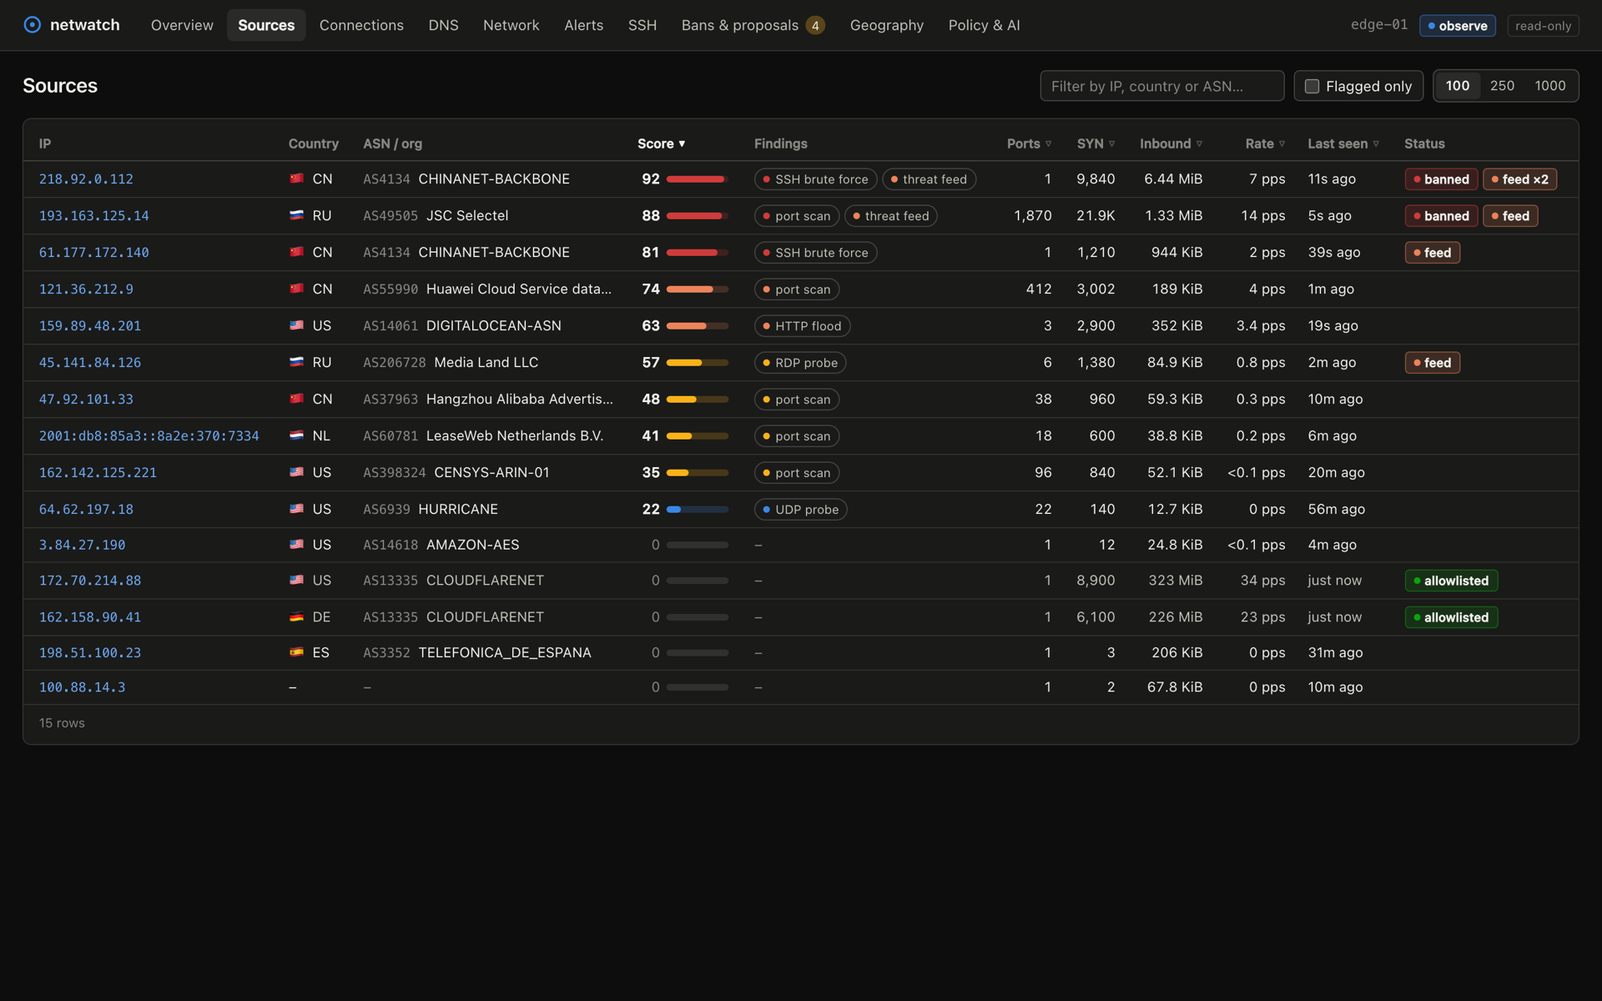
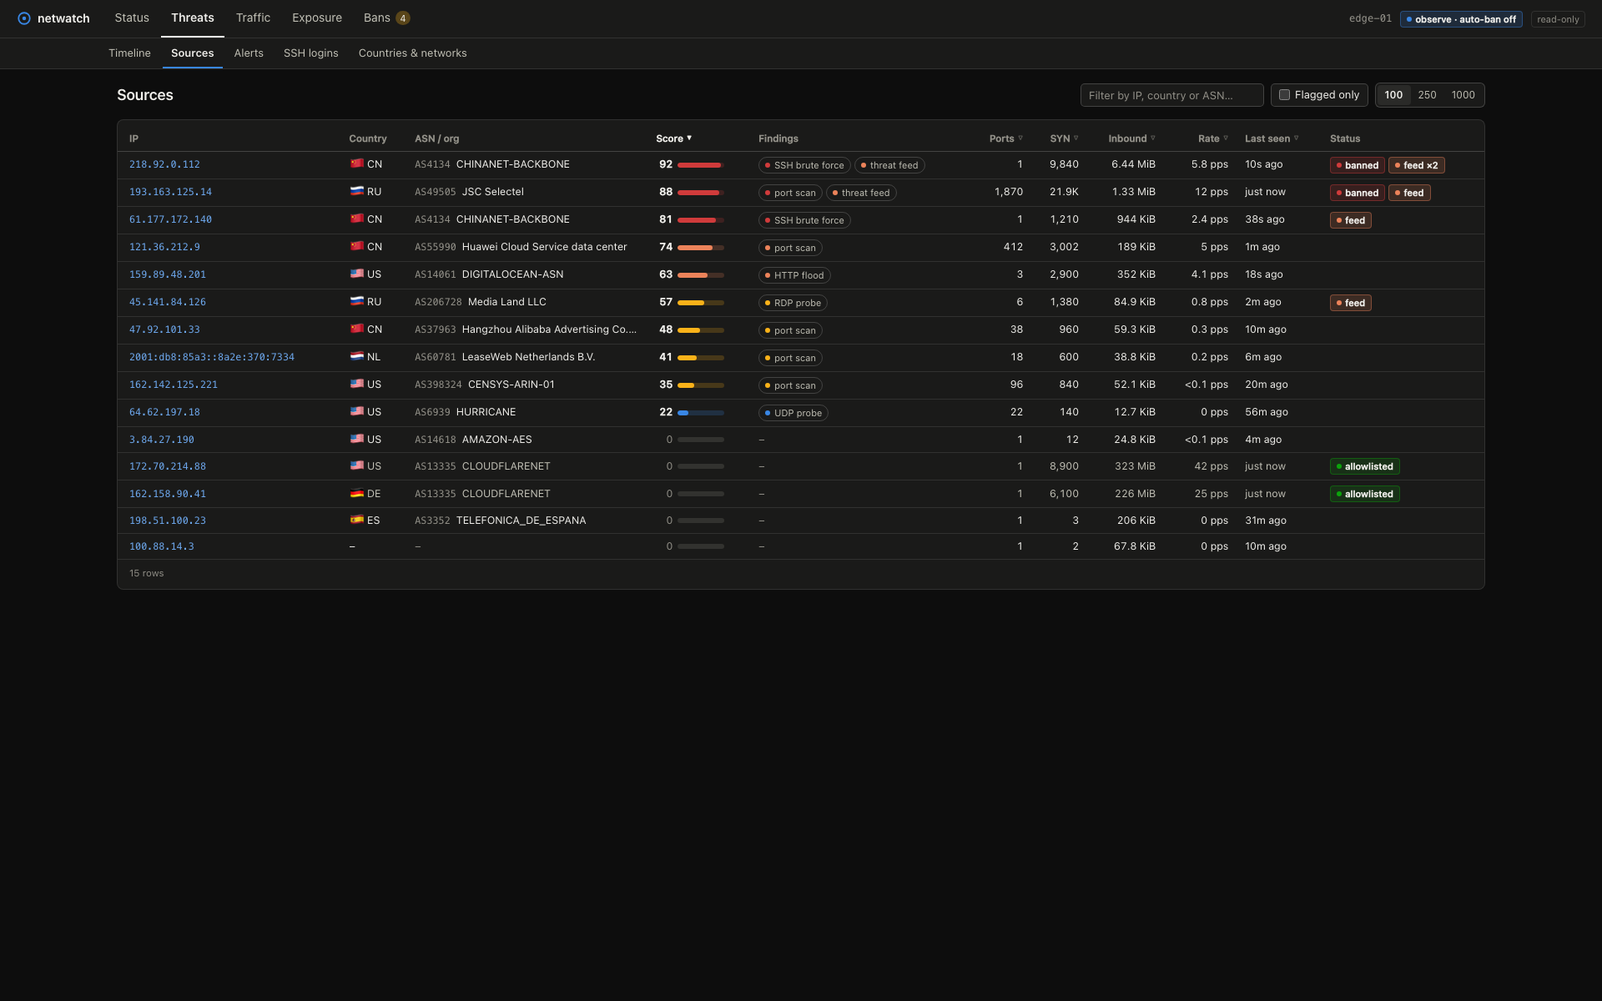
docs: the five-section UI, its new pages and screenshots
The web UI page follows the new sections: Status, Threats (timeline,
sources, a source's page, alerts, SSH logins, countries and networks),
Traffic (map, connections, destinations, DNS), Exposure and Bans. The
API page lists /api/timeline, /api/flows/graph and a ban's matched
count. README, the quick start and the agent skill follow, and every
screenshot is regenerated.

diff --git a/site/content/web-ui.md b/site/content/web-ui.md
@@ -6,17 +6,37 @@ description: A tour of every page in the web UI, what it shows and the command t
 
 The UI is built into the binary and served with the API on `127.0.0.1:9180`. It is read-only: it can't ban, approve or change settings, so exposing it through a tunnel can't change anything on the host. Every page refreshes on its own, follows your system's light or dark theme, and works on a phone.
 
+It has five sections: **Status**, **Threats**, **Traffic**, **Exposure** and **Bans**. Sections with more than one page show them as tabs under the main navigation. The mode chip at the top right says whether netwatch bans on its own (`enforce · auto-ban on`) or only proposes (`observe · auto-ban off`), and adds `dry run` when bans are counted but not dropped (`drop_banned = false`, or macOS without pf).
+
 > The screenshots on this page use the UI's built-in demo data, not a real host. **[Open the live demo](/demo/)** to click through the same data in your browser, without installing anything.
 
-## Overview
+## Status
 
-The state of the host at a glance: the attached interface and mode, live inbound packets, SYNs and drops, flagged sources, active bans, pending proposals and SSH failures, with 30-minute charts. Below them are the insights, each with the command that acts on it, and a summary of the host's connections.
+The page that opens first answers one question: does anything need you? The verdict at the top says **All quiet. Nothing needs you.**, or **Needs you** with the count of things to act on now and to check, and the command for the first one. Below it, each item says what netwatch saw, what it means for the host, a link to the evidence and the command that fixes or investigates it. They come from the daemon's insights, the pending proposals, and programs on this host whose connections to the same address and port failed three or more times in the last 24 hours.
 
-![Overview](/screenshots/overview.png)
+![Status](/screenshots/status.png)
+
+Under the list, three columns:
+
+- **Who is knocking**: flagged sources, bans and SSH logins, with the five highest-scoring sources active in the last 24 hours as a small timeline.
+- **Who this host talks to**: internet destinations in the last 24 hours, failing ones first.
+- **What the internet can reach**: listening ports bound beyond loopback, and how many sources touched each one in the last 24 hours.
+
+Then inbound packets per second over the last 30 minutes, with SYN bursts marked, and a line about the sensor: where XDP is attached, how many interfaces record flows, the threat feeds, and any tracepoint that failed to attach with what is missing because of it.
+
+If the daemon stops answering, the verdict says so and gives the command that checks the service.
 
 Terminal: `netwatch status`.
 
-## Sources
+## Threats
+
+### Timeline
+
+The flagged sources active in the last 7 days (or 24 hours), one lane each, highest score first, up to 20. A lane shows packets per hour, and marks when a finding was raised, a ban was proposed, the ban started, and any SSH login it got. Above it, the networks with more than one flagged source or a ban. The sentence at the top says how many flagged sources were active in the window, how many are banned, how many have a ban waiting for you, and whether any logged in.
+
+![Threats timeline](/screenshots/threats.png)
+
+### Sources
 
 Every address that sent traffic, scored 0–100. Each row shows what it did (port scan, SSH brute force, threat feed, …), its country and network, its traffic, and whether it's banned, allowlisted or on a threat feed. Search by address, country or ASN, and sort by score, SYNs, bytes or ports touched.
 
@@ -24,45 +44,17 @@ Every address that sent traffic, scored 0–100. Each row shows what it did (por
 
 Terminal: `netwatch sources --flagged` (alias `netwatch top`).
 
-## Source detail
+### One source
 
-One address in full: why it scored what it did, which feeds list it and the matching range, its ban and the command that lifts it, its traffic counters, the ports it touched (and which hit a listening service), its SSH events, alerts and proposals, and seven days of hourly history.
+Opening an address tells its story. The verdict says what happened and where it stands (for example "Banned 2d ago for SSH brute force, still trying"), with the next command: approve its pending proposal, ban it, or lift its ban. Three facts follow: whether it ever logged in, what its ban dropped (or matched, in a dry run), and the threat feeds that list it. Then seven days of packets and SYNs per hour with the events on them, and **What it did**: the ports it touched and which had a service listening, its connections and client software, the usernames it tried, and other flagged sources in the same network.
+
+The evidence is folded underneath: its connections, the ports touched, SSH attempts, alerts and proposals, and the raw counters.
 
 ![Source detail](/screenshots/source-detail.png)
 
 Terminal: `netwatch ip 218.92.0.112`.
 
-## Connections
-
-Every flow on the monitored interfaces, live or from history. For each one: direction, the process or container that owns it, the DNS name or TLS SNI of the other side, bytes and rates each way, TCP state, connect latency and retransmits. The summary above it shows active flows, failed connects, and the top remotes, processes, services and countries.
-
-![Connections](/screenshots/connections.png)
-
-The **Destinations** tab lists every address the host and its containers connected out to, one row per address, with the processes that reached it.
-
-Terminal: `netwatch flows`, or `netwatch flows --history --window 24h`.
-
-## DNS
-
-Every DNS query seen on the wire, with the client, the server, the answer, the response code and the latency. Next to it, the most-queried names with their NXDOMAIN counts, which is where misconfigured clients and malware beacons stand out.
-
-![DNS](/screenshots/dns.png)
-
-Terminal: `netwatch dns`, `netwatch dns --top`, `netwatch dns --rcode NXDOMAIN`.
-
-## Network
-
-**Interfaces** shows every interface with its addresses, throughput, and what netwatch attached to it: XDP for accounting and bans, TC programs for flows. It also lists the kernel programs and tracepoints that loaded and the flow settings in effect.
-
-![Interfaces](/screenshots/interfaces.png)
-
-**Listeners** shows every listening socket, which process or container owns it, and whether it's exposed (bound to any address but loopback, LAN included) or bound to loopback only.
-
-![Listeners](/screenshots/listeners.png)
-
-Terminal: `netwatch ifaces`, `netwatch listeners`.
-
-## Alerts
+### Alerts
 
 Findings over time: port scans, brute force, floods, threat-feed matches, probes of sensitive ports and exploit attempts, each with its score, source, location, a summary and how many times it fired.
 
@@ -70,34 +62,82 @@ Findings over time: port scans, brute force, floods, threat-feed matches, probes
 
 Terminal: `netwatch alerts`.
 
-## SSH
+### SSH logins
 
 SSH events from sshd and Tailscale SSH: failed passwords, invalid users, pre-auth disconnects and successful logins, with the addresses that failed most on the left.
 
-![SSH](/screenshots/ssh.png)
+![SSH logins](/screenshots/ssh.png)
 
 Terminal: `netwatch ssh`.
 
-## Bans & proposals
+### Countries & networks
 
-Active bans with their reason, who applied them, when they expire and how many packets they dropped. Pending proposals show who proposed them (the rules or the model), the confidence, the reason and the command that applies them. The number next to the tab is the count of proposals waiting.
+Sources grouped by country and by network (ASN), the ports they hit and the sources with the highest score over the last day or week.
+
+![Countries and networks](/screenshots/geo.png)
+
+Terminal: `netwatch geo 1.1.1.1` looks up one address offline.
+
+## Traffic
+
+### Map
+
+Who talks to whom, with the host in the middle. On the left, who connects in and to which service; on the right, which program on the host connects out and to whom. Line width is bytes. Failing connections are dashed red and say why (refused, timed out, unanswered), and lines from flagged sources are orange. Each column shows up to nine boxes and folds the rest into "N more". Click a box to list its connections under the map; **Table** shows the same lines as a table. The window is 5 minutes, 1 hour or 24 hours.
+
+![Traffic map](/screenshots/map.png)
+
+### Connections
+
+Every flow on the monitored interfaces, live or from history. For each one: direction, the process or container that owns it, the DNS name or TLS SNI of the other side, bytes and rates each way, TCP state, connect latency and retransmits. The summary above it shows active flows, failed connects, and the top remotes, processes, services and countries.
+
+![Connections](/screenshots/connections.png)
+
+Terminal: `netwatch flows`, or `netwatch flows --history --window 24h`.
+
+### Destinations
+
+Every address the host and its containers connected out to, one row per address, with the processes that reached it.
+
+![Destinations](/screenshots/destinations.png)
+
+### DNS
+
+Every DNS query seen on the wire, with the client, the server, the answer, the response code and the latency. Next to it, the most-queried names with their NXDOMAIN counts, which is where misconfigured clients and malware beacons stand out.
+
+![DNS](/screenshots/dns.png)
+
+Terminal: `netwatch dns`, `netwatch dns --top`, `netwatch dns --rcode NXDOMAIN`.
+
+## Exposure
+
+**Listening ports** shows every listening socket, which process or container owns it, and whether it's exposed (bound to any address but loopback, LAN included) or bound to loopback only.
+
+![Listening ports](/screenshots/listeners.png)
+
+**Interfaces & sensor** shows every interface with its addresses, throughput, and what netwatch attached to it: XDP for accounting and bans, TC programs for flows. It also lists the kernel programs and tracepoints that loaded and the flow settings in effect.
+
+![Interfaces and sensor](/screenshots/interfaces.png)
+
+Terminal: `netwatch listeners`, `netwatch ifaces`.
+
+## Bans
+
+### Bans & proposals
+
+Active bans with their reason, who applied them, when they expire and how many packets they dropped. When bans don't drop (a dry run), the column is **Matched, not dropped** and counts the packets that hit the ban and went through. Pending proposals show who proposed them (the rules or the model), the confidence, the reason and the command that applies them. The number next to **Bans** in the navigation is the count of proposals waiting.
 
 ![Bans and proposals](/screenshots/bans.png)
 
 Terminal: `netwatch bans`, `netwatch proposals`, then `sudo netwatch approve <id>`.
 
-## Geography
-
-Sources grouped by country and by network (ASN), the ports they hit and the sources with the highest score over the last day or week.
-
-![Geography](/screenshots/geo.png)
-
-Terminal: `netwatch geo 1.1.1.1` looks up one address offline.
-
-## Policy & AI
+### Policy & AI
 
 The ban policy in effect: your rules written in plain English, the structured rules they compiled to, and the built-in defaults. If a model is configured, the page also shows its recent runs, the tokens they used and what they proposed.
 
 ![Policy and AI](/screenshots/policy.png)
 
 Terminal: `netwatch policy show`. See [Bans and policy](/bans-and-policy) and [AI analysis](/ai-analysis).
+
+## Old addresses
+
+Links to the pages from before the five sections still work and land on the new page: `#/overview` opens Status, `#/sources` Threats › Sources, `#/geo` Countries & networks, `#/connections` Traffic › Connections, `#/listeners` Exposure, `#/policy` Bans › Policy & AI, and so on.

diff --git a/README.md b/README.md
@@ -17,7 +17,7 @@ It runs as root, so [Security and privacy](https://gotempsh.github.io/netwatch/s
 
 Optionally, it can use any OpenAI-compatible model. The model reviews the sources the rules can't settle, and turns plain-English ban policies into rules. It is designed for cheap models and small token budgets.
 
-![Overview: live rates, active bans, pending proposals, and insights with the command that fixes each one](docs/screenshots/overview.png)
+![Status: a verdict, what needs you with the command for each item, then who is knocking, who this host talks to and what the internet can reach](docs/screenshots/status.png)
 
 ```mermaid
 flowchart TB
@@ -45,13 +45,23 @@ flowchart TB
 
 ## A look around
 
+**Status.** The page that opens first says whether anything needs you. Each item gives what netwatch saw, a link to the evidence and the command that fixes it, and below them, who is knocking, who this host talks to and what the internet can reach.
+
+**Attack timeline.** The flagged sources active in the last 7 days, one lane each, with when each finding, proposal, ban and login happened.
+
+![Attack timeline: flagged sources by score, one lane each, with packets per hour, findings, proposals and bans](docs/screenshots/threats.png)
+
 **Sources.** Every address that sent traffic, scored 0–100, with what it did, its network, and whether it's banned, allowlisted or on a threat feed.
 
 ![Sources table sorted by score, with findings such as SSH brute force, port scan and threat feed](docs/screenshots/sources.png)
 
-**One source.** Why it scored what it did, which feeds list it, its ban and the command to lift it, and seven days of history.
+**One source.** What it did and where it stands: whether it got in, what its ban dropped, which feeds list it, seven days of history with its events, and the next command.
 
-![Source detail for an SSH brute-force address: findings, threat feeds, ban status and a 7-day chart](docs/screenshots/source-detail.png)
+![Source detail for an SSH brute-force address: banned and still trying, never got in, its 7 days of packets and the ports, connections and usernames it tried](docs/screenshots/source-detail.png)
+
+**Who talks to whom.** The host in the middle: who connects in and to which service, which program connects out and to whom. Failing connections are dashed red and say why.
+
+![Traffic map: inbound sources and the services they reach, outbound programs and their destinations, with failing connections dashed red](docs/screenshots/map.png)
 
 **Connections.** Every flow on the host with the process or container behind it, the name it was resolved from, and who it talks to most.
 
@@ -247,7 +257,7 @@ Open the UI through an SSH tunnel, since it never listens on a public address:
 ssh -L 9180:127.0.0.1:9180 user@server   # then browse http://127.0.0.1:9180
 ```
 
-The UI pages are: Overview, Connections, Interfaces, Listeners, DNS, Sources, Source detail, Alerts, SSH, Bans, Geo and Policy.
+The UI has five sections: Status; Threats (attack timeline, sources and each source's page, alerts, SSH logins, countries and networks); Traffic (the map, connections, destinations, DNS); Exposure (listening ports, interfaces and the sensor); and Bans (bans and proposals, policy and AI).
 
 Read-only commands talk to the same API and need no root:
 

diff --git a/site/content/quick-start.md b/site/content/quick-start.md
@@ -17,20 +17,20 @@ Then browse [http://127.0.0.1:9180](http://127.0.0.1:9180). On a Mac running net
 
 No server yet? The [live demo](/demo/) is the same UI on demo data, so you can follow the steps below in your browser.
 
-![The Overview page: host status, live rates, flagged sources, bans and proposals](/screenshots/overview.png "Overview: the host, live packet and SYN rates, flagged sources, active bans and pending proposals.")
+![The Status page: a verdict, what needs you with the command for each item, and who is knocking](/screenshots/status.png "Status: what needs you, most urgent first, then who is knocking, who this host talks to and what the internet can reach.")
 
-The strip at the top shows the host, the interface XDP is attached to and how (driver or generic), the mode, whether bans drop packets, the threat feeds loaded and, if configured, the model and its token budget.
+## 2. Read what needs you
 
-## 2. Read the insights
-
-Further down the Overview, **Insights** is what netwatch thinks deserves attention, most severe first. Each one says what it saw and gives the command that fixes or investigates it, for example:
+**Status** opens with a verdict: all quiet, or what needs you now and what to check. Each item says what netwatch saw and gives the command that fixes or investigates it, for example:
 
 - "sshd accepts passwords", with the `sshd_config` change;
 - "SSH brute force from CHINANET /16 is ongoing", with the pending proposal;
 - "port 5432 is reachable and being probed";
-- "this host talked to a listed IP".
+- "pg-backup can't reach db.backup.example.com:5432", when a program's connections keep failing.
 
-The same list is in the terminal:
+A line at the bottom of the page says where the sensor is attached, how many interfaces record flows and which threat feeds are loaded. The chip at the top right shows the mode, and says `dry run` when bans are counted but not dropped.
+
+The daemon's insights, without the client-side checks such as failing connections, are in the terminal too:
 
 ```shell
 netwatch status
@@ -38,7 +38,7 @@ netwatch status
 
 ## 3. Look at who is knocking
 
-**Sources** lists every address that sent traffic, scored 0–100. Open one to see why it scored what it did.
+**Threats** opens on a timeline of the flagged sources, one lane each, with when each finding, proposal and ban happened. **Threats › Sources** lists every address that sent traffic, scored 0–100. Open one to see what it did and where it stands.
 
 ![Sources, sorted by score](/screenshots/sources.png "Sources: score, findings, network and ban state for every address that sent traffic.")
 
@@ -49,7 +49,7 @@ netwatch ip 218.92.0.112         # everything about one address
 
 ## 4. Approve a ban
 
-In observe mode every ban is a **proposal**. **Bans & proposals** lists them with who proposed them (the rules or the model), why, and the command that applies each one.
+In observe mode every ban is a **proposal**. **Bans** lists them with who proposed them (the rules or the model), why, and the command that applies each one.
 
 ![Bans and proposals](/screenshots/bans.png "Bans & proposals: active bans with their drop counts, and proposals waiting for approval.")
 

diff --git a/site/content/api.md b/site/content/api.md
@@ -20,13 +20,15 @@ curl -s 'http://127.0.0.1:9180/api/sources?flagged=1&limit=10' | jq '.[].ip'
 | `/api/sources/{ip}` | one source in full: findings, feeds, ports, SSH, alerts, proposals, history | |
 | `/api/alerts` | findings over time | `since`, `ip`, `limit` |
 | `/api/ssh` | SSH events | `since`, `ip`, `limit` |
-| `/api/bans` | active bans | |
+| `/api/bans` | active bans; `matched` counts the packets that hit each ban, `dropped` the ones it dropped (0 when bans don't drop: `drop_banned = false`, or macOS without pf) | |
 | `/api/proposals` | pending proposals with the command that applies each | `status=all` (include decided ones), `ip`, `limit` |
+| `/api/timeline` | flagged sources active in the window, highest score first, each with its hourly packets and SYNs, its findings, proposals, ban and accepted SSH logins; `total` counts them all before `limit` | `window` (`24h` or `7d`, the default), `limit` (1–50, default 20) |
 | `/api/summary` | traffic by country, network, port and top sources | `window` |
 | `/api/events` | recent daemon events | `limit` |
 | `/api/policy` | your rules, the compiled rules and the built-in defaults | |
 | `/api/llm` | model settings, token use and recent runs | |
 | `/api/flows` | connections | `view` (`active`, `history`, `all`), `window`, `ip`, `port`, `process`, `dir`, `iface`, `proto`, `q`, `sort`, `limit` |
+| `/api/flows/graph` | the Traffic map: inbound connections grouped by who connected and the service they reached, outbound ones by program and destination, each column folded to nine boxes, with bytes and failures per line | `window` (`5m`, `1h` the default, `24h`) |
 | `/api/flows/summary` | flow counts, failed connects, bytes moved in the window (from `bytes_since`), top remotes, processes, services and countries | `window` |
 | `/api/destinations` | every address the host connected out to, one row per address | `window`, `scope` (`public`, `all`), `unnamed`, `q`, `sort`, `limit` |
 | `/api/interfaces` | interfaces, rates and attached programs | |

diff --git a/site/content/index.md b/site/content/index.md
@@ -6,7 +6,7 @@ description: netwatch is a single-binary traffic monitor for Linux servers and m
 
 netwatch counts every packet in the kernel with eBPF/XDP and keeps a record of every connection, together with the process or container behind it. It flags port scans, brute force, floods and listed attackers, and proposes bans that you approve, or enforces them at XDP speed. You browse everything in a read-only web UI that listens only on `127.0.0.1`, or from the command line.
 
-![Overview: live rates, active bans, pending proposals and insights](/screenshots/overview.png "The Overview page. Screenshots in these docs use the UI's built-in demo data.")
+![Status: a verdict, what needs you with the command for each item, and who is knocking](/screenshots/status.png "The Status page. Screenshots in these docs use the UI's built-in demo data.")
 
 **[Try the live demo](/demo/)**: the same web UI on demo data, in your browser. Nothing to install and no server behind it.
 

diff --git a/site/content/development.md b/site/content/development.md
@@ -53,7 +53,7 @@ npm --prefix site run dev        # http://127.0.0.1:4321, rebuilds on change
 npm --prefix ui run build:demo   # the live demo, into site/dist/demo/
 ```
 
-The demo is the UI built with `--mode demo`: mock data, no API calls, and a banner on every page saying so. The UI uses hash routes (`demo/#/sources`), so deep links and refreshes work on GitHub Pages with no fallback page. Build it after the site: the site build empties `site/dist/`, and so does each rebuild of `run dev`.
+The demo is the UI built with `--mode demo`: mock data, no API calls, and a banner on every page saying so. The UI uses hash routes (`demo/#/threats/sources`), so deep links and refreshes work on GitHub Pages with no fallback page. Build it after the site: the site build empties `site/dist/`, and so does each rebuild of `run dev`.
 
 Pages are Markdown in `site/content/`. Each one is also published as `<page>.md`, and `llms.txt` and `llms-full.txt` list them for agents.
 

diff --git a/skills/netwatch/SKILL.md b/skills/netwatch/SKILL.md
@@ -52,7 +52,7 @@ curl -s 'http://127.0.0.1:9180/api/flows?view=history&window=24h&process=nginx'
 curl -s http://127.0.0.1:9180/api/proposals
 ```
 
-Other endpoints: `/api/insights`, `/api/alerts`, `/api/ssh`, `/api/bans`, `/api/summary`, `/api/flows/summary`, `/api/destinations`, `/api/listeners`, `/api/dns`, `/api/conn_events`, `/api/interfaces`, `/api/policy`. From another machine, tunnel first: `ssh -L 9180:127.0.0.1:9180 user@server`.
+Other endpoints: `/api/insights`, `/api/alerts`, `/api/ssh`, `/api/bans`, `/api/summary`, `/api/timeline` (flagged sources with their hourly history and events), `/api/flows/summary`, `/api/flows/graph` (who connects to which service, which program connects where), `/api/destinations`, `/api/listeners`, `/api/dns`, `/api/conn_events`, `/api/interfaces`, `/api/policy`. From another machine, tunnel first: `ssh -L 9180:127.0.0.1:9180 user@server`.
 
 ## Read the results correctly
 

diff --git a/site/content/detection.md b/site/content/detection.md
@@ -55,7 +55,7 @@ Insights turn the data into concrete advice, each with a command to run, for exa
 - "12 scanners from AS14061";
 - "this host talked to a listed IP".
 
-They're on the Overview page and in `netwatch status` and `netwatch insights`.
+They're on the Status page of the web UI, each with the command that acts on it, and in `netwatch status` and `netwatch insights`.
 
 ## Never ban what you depend on
 
